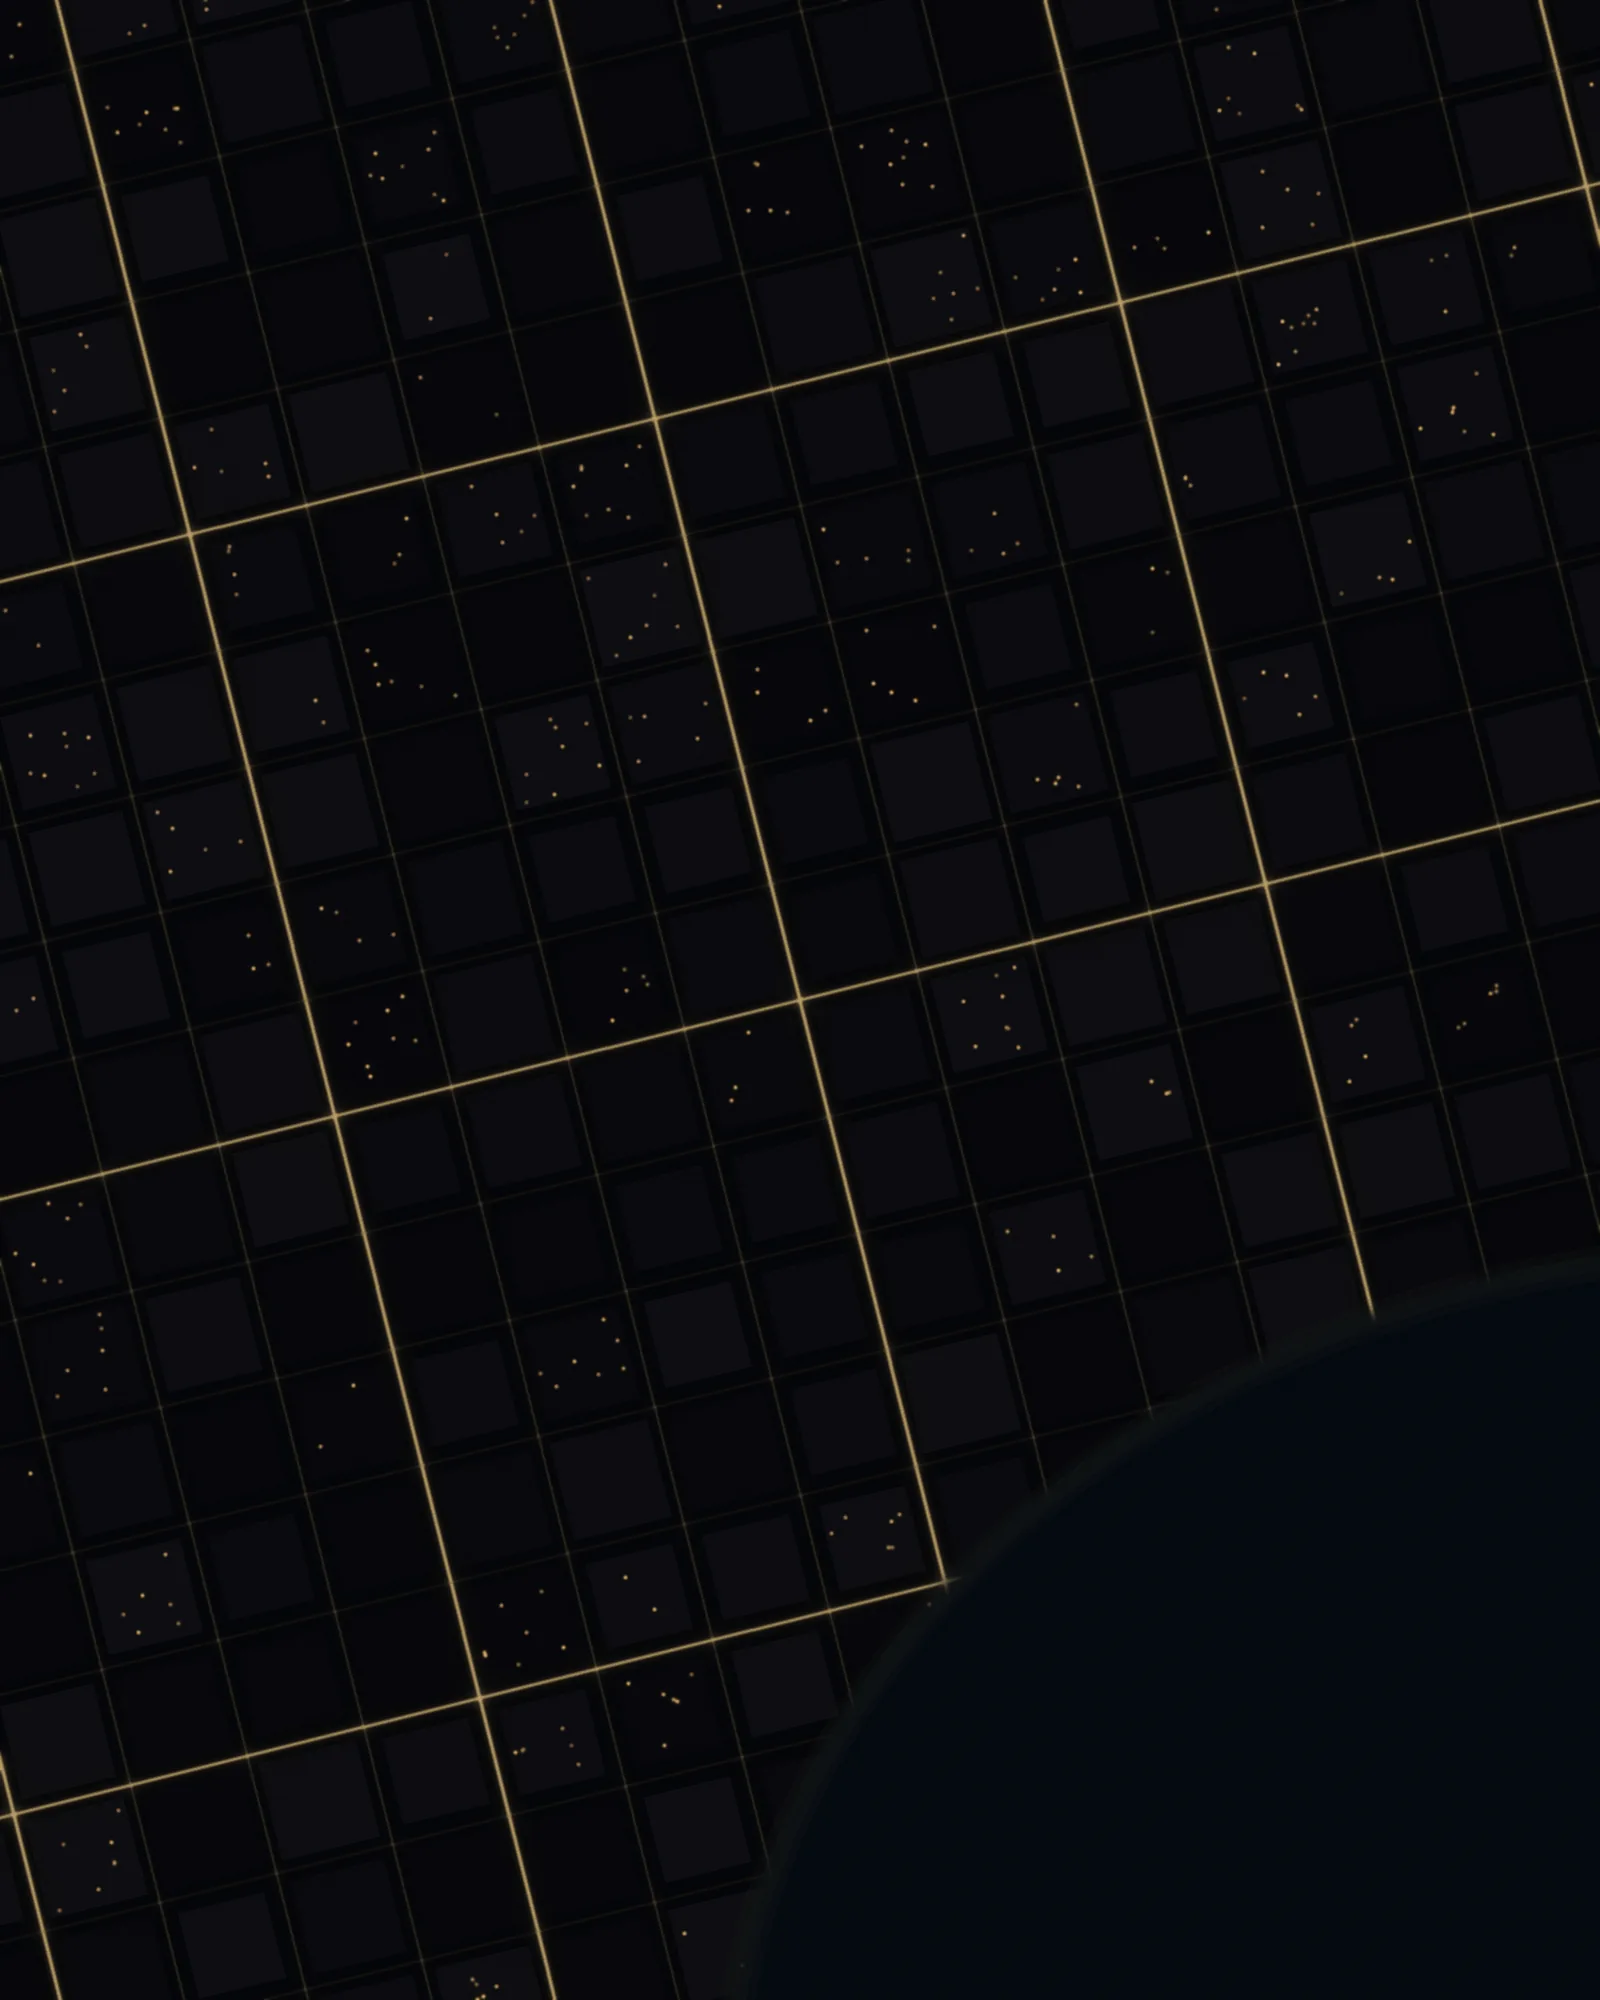
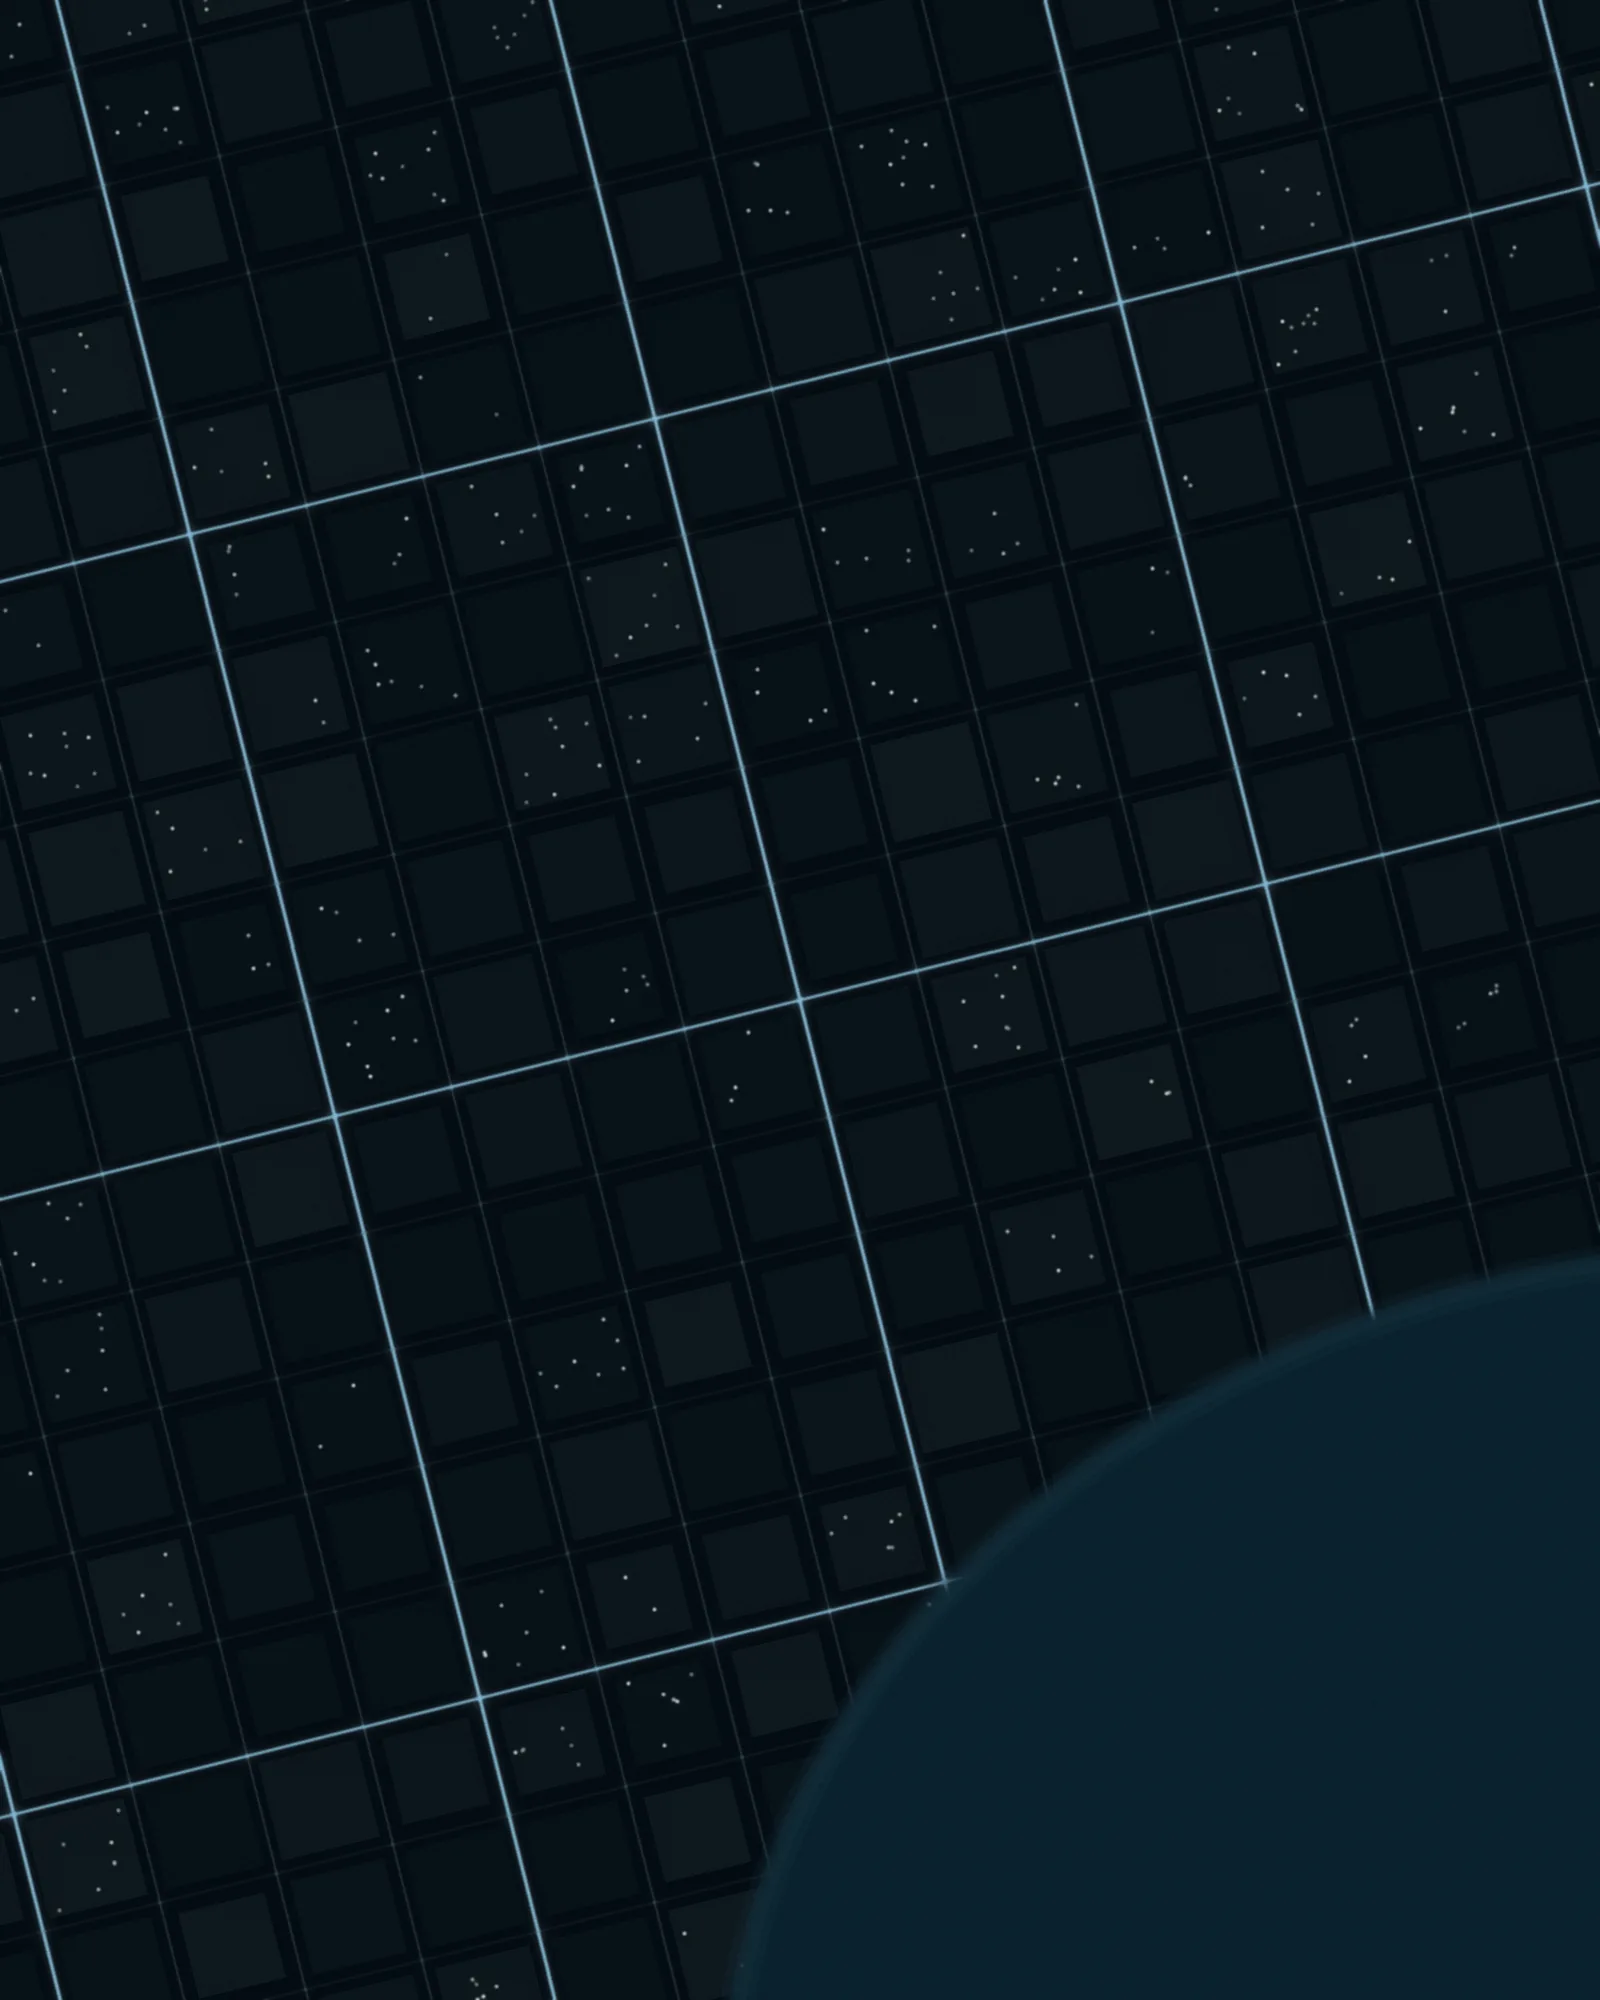
feat(art): repaint the aerial grid with steel streets over blue-teal blocks and lagoon

diff --git a/scripts/art/aerial_grid.py b/scripts/art/aerial_grid.py
@@ -11,7 +11,7 @@ rnd = rng(53)
 
 
 def main():
-    img = Image.new("RGBA", (W, H), (5, 6, 9, 255))
+    img = Image.new("RGBA", (W, H), (4, 12, 18, 255))
     streets = Image.new("RGBA", (W, H), (0, 0, 0, 0))
     s = ImageDraw.Draw(streets)
     blocks = ImageDraw.Draw(img)
@@ -30,7 +30,7 @@ def main():
             pad = rnd.choice([10, 12, 16])
             quad = [rot(gx + pad, gy + pad), rot(gx + step - pad, gy + pad), rot(gx + step - pad, gy + step - pad), rot(gx + pad, gy + step - pad)]
             shade = rnd.randint(7, 14)
-            blocks.polygon(quad, fill=(shade, shade, shade + 4))
+            blocks.polygon(quad, fill=(shade, shade + 10, shade + 16))
             # Rooftop lights inside some blocks.
             if rnd.random() < 0.35:
                 for _ in range(rnd.randint(2, 8)):
@@ -57,7 +57,7 @@ def main():
     big = big.filter(ImageFilter.GaussianBlur(6))
     shore_big = big.filter(ImageFilter.FIND_EDGES).filter(ImageFilter.GaussianBlur(10))
     water = big.crop((P, P, P + W, P + H))
-    img = Image.composite(Image.new("RGBA", (W, H), (4, 10, 16, 255)), img, water)
+    img = Image.composite(Image.new("RGBA", (W, H), (10, 34, 46, 255)), img, water)
     shore = shore_big.crop((P, P, P + W, P + H))
     glow = Image.new("RGBA", (W, H), (*GOLD, 0))
     glow.putalpha(shore.point(lambda v: min(255, v * 6)))
